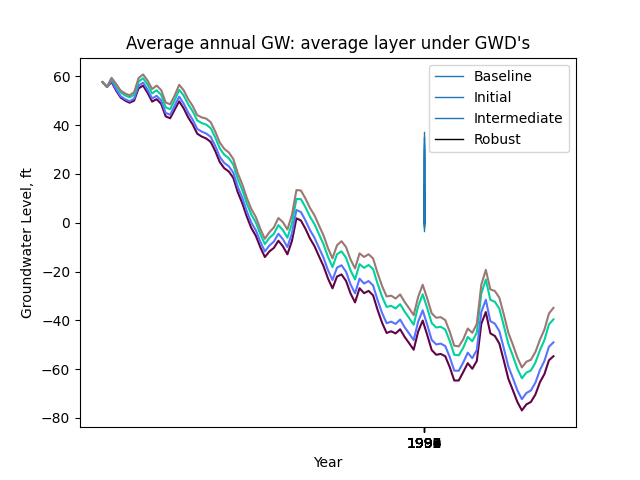
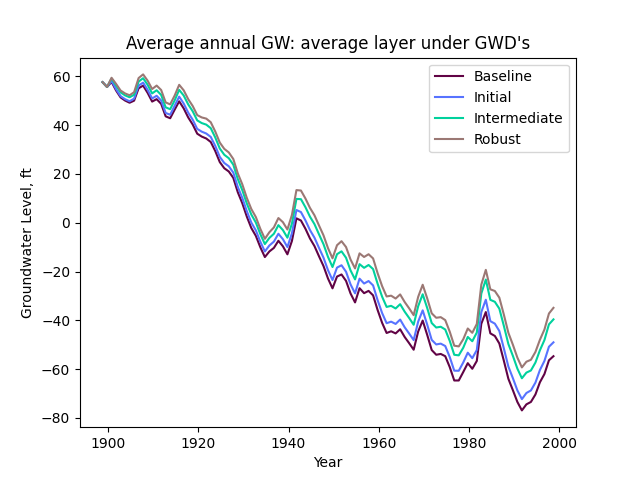
Bug fix
clear plots before next

diff --git a/subsidence.py b/subsidence.py
@@ -3,7 +3,8 @@ import matplotlib.pyplot as plt
 from tqdm import tqdm
 
 
-# for given layer, plot differences (annual average GW level under all SUBSIDENCE ELEMENTS) between strategies, ANNUAL AVERAGE
+# for given layer, plot differences (annual average GW level under all SUBSIDENCE ELEMENTS) between strategies,
+# ANNUAL AVERAGE
 def sub_compare_strategies(layer):
     # read SUB_cut csv's
     df_baseline = pd.read_csv('Data/Annual_averages/Subsidence/Baseline_GW_' + layer + '_aa_SUB.csv', index_col=0,
@@ -78,6 +79,7 @@ def sub_boxplot(strategy, layer):
     plt.ylabel('Groundwater level, ft')
     plt.xlabel('Year')
     plt.savefig('Data/Annual_averages/Subsidence/Figures/SUB_' + strategy + '_GW_' + layer + '_aa_boxplot.png')
+    plt.clf()
     return
 
 
@@ -98,6 +100,7 @@ def sub_boxplot_del(strategy, layer):
     plt.ylabel('Groundwater level, ft')
     plt.xlabel('Year')
     plt.savefig('Data/Annual_averages/Subsidence/Figures/SUB_' + strategy + '_GW_' + layer + '_aa_del_boxplot.png')
+    plt.clf()
     return
 
 

diff --git a/GWDs.py b/GWDs.py
@@ -76,6 +76,7 @@ def gwd_boxplot(strategy, layer):
     plt.ylabel('Groundwater level, ft')
     plt.xlabel('Year')
     plt.savefig('Data/Annual_averages/GWDZones/Figures/GWD_' + strategy + '_GW_' + layer + '_aa_boxplot.png')
+    plt.clf()
     return
 
 
@@ -97,6 +98,7 @@ def gwd_boxplot_del(strategy, layer):
     plt.ylabel('Groundwater level, ft')
     plt.xlabel('Year')
     plt.savefig('Data/Annual_averages/GWDZones/Figures/GWD_' + strategy + '_GW_' + layer + '_aa_del_boxplot.png')
+    plt.clf()
     return
 
 

diff --git a/DACs.py b/DACs.py
@@ -75,6 +75,7 @@ def dac_boxplot(strategy, layer):
     plt.ylabel('Groundwater level, ft')
     plt.xlabel('Year')
     plt.savefig('Data/Annual_averages/DAC/Figures/DAC_' + strategy + '_GW_' + layer + '_aa_boxplot.png')
+    plt.clf()
     return
 
 
@@ -95,6 +96,7 @@ def dac_boxplot_del(strategy, layer):
     plt.ylabel('Groundwater level, ft')
     plt.xlabel('Year')
     plt.savefig('Data/Annual_averages/DAC/Figures/DAC_' + strategy + '_GW_' + layer + '_aa_del_boxplot.png')
+    plt.clf()
     return
 
 

diff --git a/initial_analysis.py b/initial_analysis.py
@@ -164,6 +164,7 @@ def basin_boxplot(strategy, layer):
     plt.ylabel('Groundwater level, ft')
     plt.xlabel('Year')
     plt.savefig('Data/Annual_averages/Figures/' + strategy + '_GW_' + layer + '_aa_boxplot.png')
+    plt.clf()
     return
 
 
@@ -185,6 +186,7 @@ def basin_boxplot_del(strategy, layer):
     plt.ylabel('Groundwater level, ft')
     plt.xlabel('Year')
     plt.savefig('Data/Annual_averages/Figures/' + strategy + '_GW_' + layer + '_aa_del_boxplot.png')
+    plt.clf()
     return
 
 
